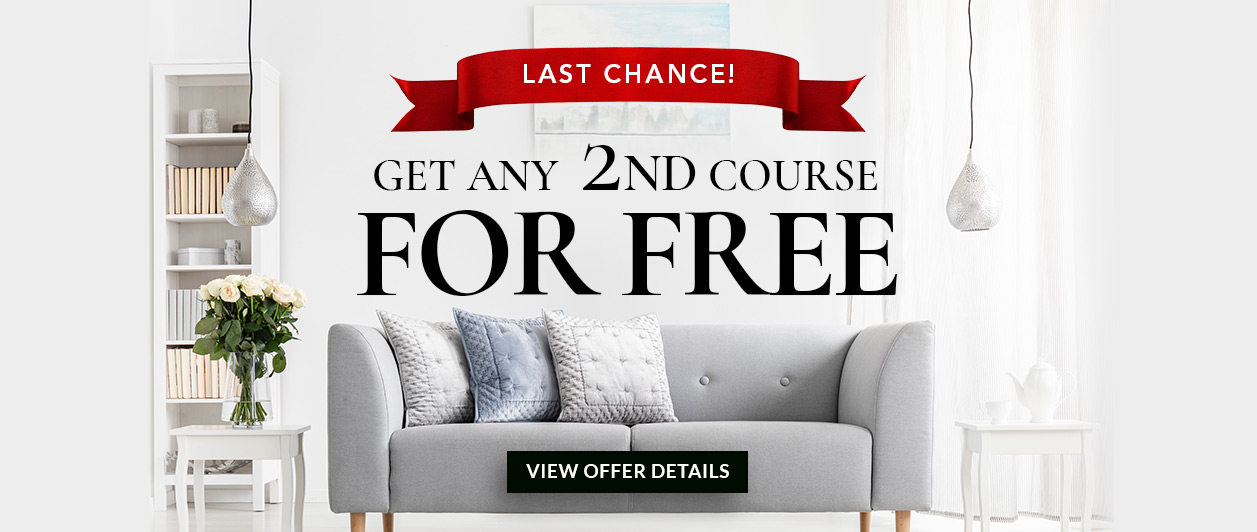
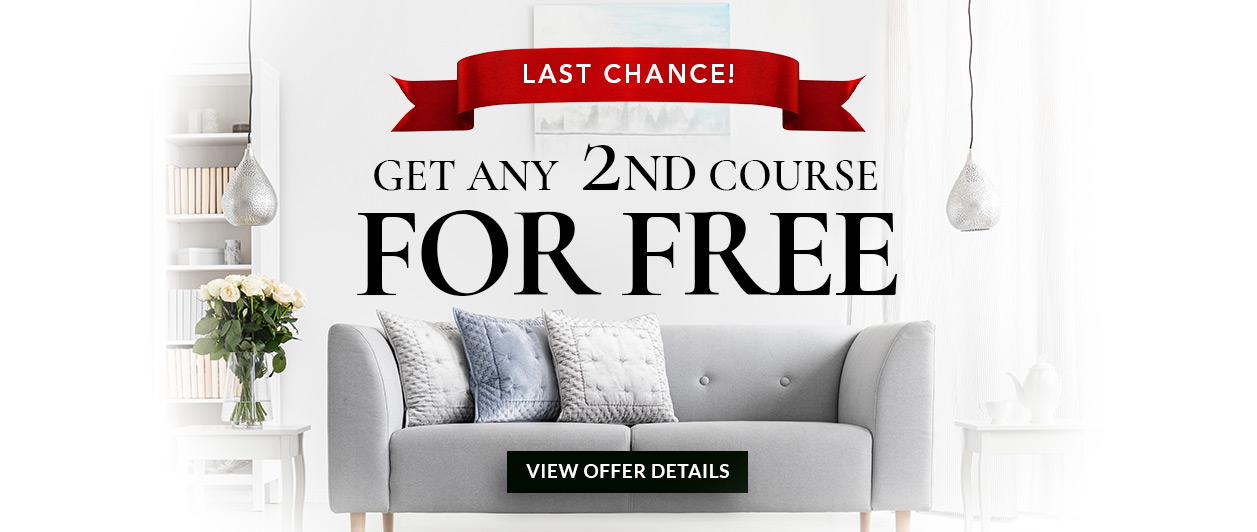
Revert to normal images for floral and organizing

Changed region(s): [[0.0931, 0.1203, 0.3413, 1.0], [0.6205, 0.782, 0.8998, 1.0]]

diff --git a/src/components/Form.tsx b/src/components/Form.tsx
@@ -115,7 +115,7 @@ export const Form: React.FC<Props> = props => {
       dispatch({ type: 'CLEAR_COURSES', payload: { internal: !!props.internal } });
       props.courseOverride.forEach(c => dispatch({ type: 'ADD_COURSE', payload: { courseCode: c, internal: !!props.internal } }));
     }
-  }, [ ]);
+  }, [ dispatch, props.courseOverride, props.internal ]);
 
   const [ enrollment, setEnrollment ] = useState<EnrollmentData | null>(null);
   const [ errorModal, setErrorModal ] = useState<ErrorModalData>({ open: false, title: '', message: '' });

diff --git a/src/pages/event/floral/index.tsx b/src/pages/event/floral/index.tsx
@@ -25,13 +25,15 @@ const courseGroups: CourseGroup[] = [
   },
 ];
 
+const courseOverride = [ 'FD' ];
+
 const Floral: React.FC<Props> = ({ currencyCode }) => (
   <>
     <FloralPromo currencyCode={currencyCode} />
     <Form
       courseGroups={courseGroups}
       school="QC Event School"
-      courseOverride={[ 'FD' ]}
+      courseOverride={courseOverride}
       guarantee={() => <Guarantee />}
       shippingOption={true}
       agreementLink="https://www.qceventplanning.com/enrollment-agreement.html"

diff --git a/src/pages/design/organizing/OrganizingPromo.tsx b/src/pages/design/organizing/OrganizingPromo.tsx
@@ -19,7 +19,7 @@ export const OrganizingPromo: React.FC<Props> = ({ currencyCode }) => {
   let desktopImage;
   let mobileImage;
 
-  if (date >= new Date('2021-02-18T00:00:00-05:00')) {
+  if (date >= new Date('2021-03-10T12:00:00-05:00')) {
     desktopImage = currencyCode === 'GBP' ? require('./desktop-uk-ends.jpg') : require('./desktop-ends.jpg');
     mobileImage = currencyCode === 'GBP' ? require('./mobile-uk-ends.jpg') : require('./mobile-ends.jpg');
   } else {

diff --git a/src/pages/event/floral/FloralPromo.tsx b/src/pages/event/floral/FloralPromo.tsx
@@ -16,7 +16,7 @@ export const FloralPromo: React.FC<Props> = ({ currencyCode }) => {
   const desktop = screenWidth > 576;
 
   let image: string;
-  if (date >= new Date('2021-02-18T12:00:00-05:00')) {
+  if (date >= new Date('2021-03-10T12:00:00-05:00')) {
     if (desktop) {
       image = currencyCode === 'GBP' ? require('./desktop-uk-ends.jpg') : require('./desktop-ends.jpg');
     } else {
